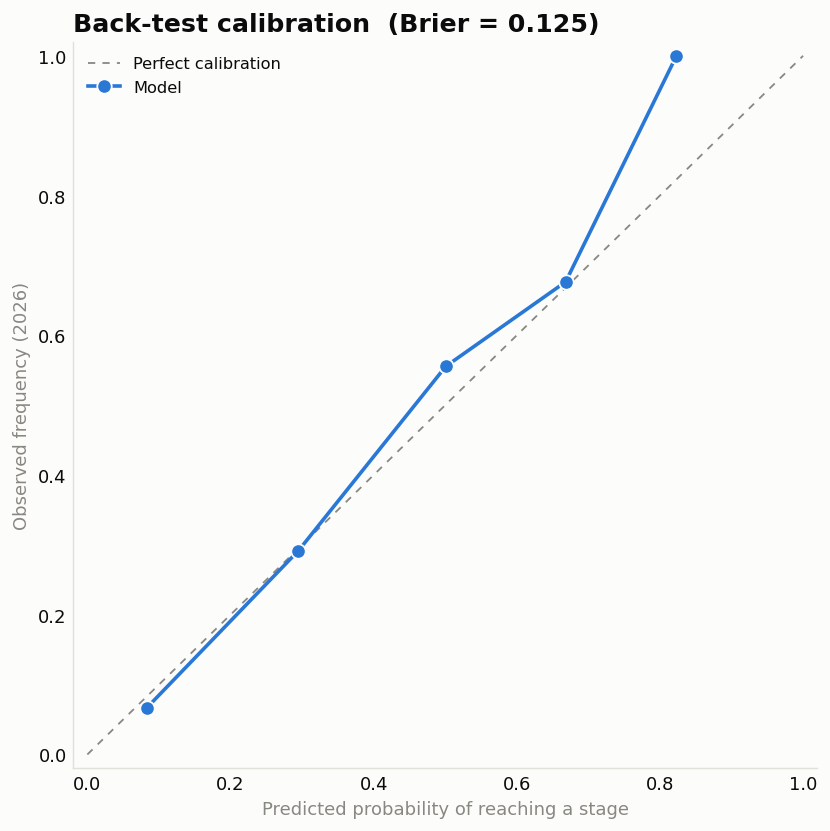
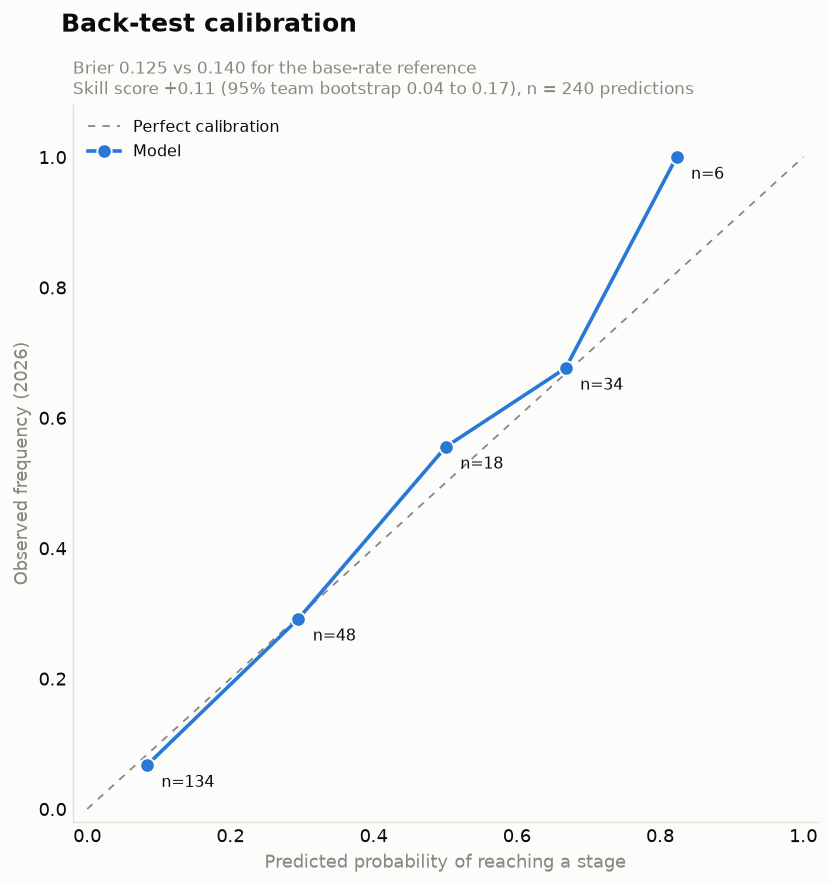
feat: compare back-test Brier score with a base-rate reference
A Brier score on its own has no scale. Add a reference forecast that only knows the 48-team format, the Brier skill score with a team-level bootstrap interval, and the number of predictions behind each calibration point.

diff --git a/scripts/04_simulate_tournament.py b/scripts/04_simulate_tournament.py
@@ -14,7 +14,7 @@ import pandas as pd
 
 sys.path.insert(0, str(Path(__file__).resolve().parents[1] / "src"))
 
-from worldcup import config, simulation
+from worldcup import config, evaluation, simulation
 from worldcup.model import DixonColesModel
 
 STAGE_COLUMNS = [
@@ -35,7 +35,11 @@ SURFACE = "#fcfcfb"
 
 
 def back_test(probs: pd.DataFrame, knockout: pd.DataFrame) -> pd.DataFrame:
-    """Compare predicted stage probabilities with what actually happened in 2026."""
+    """Compare predicted stage probabilities with what actually happened in 2026.
+
+    Adds the base-rate ``reference`` forecast (share of the field reaching each
+    stage) so the model's Brier score has something to be compared with.
+    """
     actual = simulation.actual_reached_depths(knockout)
     records = []
     for _, row in probs.iterrows():
@@ -49,7 +53,28 @@ def back_test(probs: pd.DataFrame, knockout: pd.DataFrame) -> pd.DataFrame:
                     "actual": int(depth >= stage),
                 }
             )
-    return pd.DataFrame(records)
+    bt = pd.DataFrame(records)
+    bt["reference"] = evaluation.base_rate_probabilities(bt["stage"], n_teams=len(probs))
+    return bt
+
+
+def back_test_summary(bt: pd.DataFrame) -> pd.DataFrame:
+    """Brier score of the model and the reference, and the skill score, per stage and overall."""
+    rows = []
+    groups = [(stage, bt[bt["stage"] == stage]) for stage, _ in STAGE_COLUMNS] + [("all", bt)]
+    for stage, d in groups:
+        rows.append(
+            {
+                "stage": stage,
+                "n": len(d),
+                "brier_model": evaluation.brier_score(d["predicted"], d["actual"]),
+                "brier_reference": evaluation.brier_score(d["reference"], d["actual"]),
+                "skill_score": evaluation.brier_skill_score(
+                    d["predicted"], d["actual"], d["reference"]
+                ),
+            }
+        )
+    return pd.DataFrame(rows)
 
 
 def _style_axes(ax):
@@ -111,41 +136,40 @@ def figure_strengths(model: DixonColesModel, groups: pd.DataFrame, path: Path) -
     plt.close(fig)
 
 
-def figure_backtest(bt: pd.DataFrame, path: Path, n_bins: int = 5) -> float:
-    """Reliability plot pooling all (team, stage) predictions; returns Brier score."""
+def figure_backtest(
+    bt: pd.DataFrame, summary: pd.DataFrame, ci: tuple[float, float], path: Path, n_bins: int = 5
+) -> None:
+    """Reliability plot pooling all (team, stage) predictions, with bin sizes and skill score."""
     import matplotlib.pyplot as plt
 
-    p = bt["predicted"].to_numpy()
-    a = bt["actual"].to_numpy()
-    brier = float(np.mean((p - a) ** 2))
+    table = evaluation.calibration_table(bt["predicted"], bt["actual"], n_bins=n_bins)
+    overall = summary.set_index("stage").loc["all"]
 
-    edges = np.linspace(0, 1, n_bins + 1)
-    xs, ys = [], []
-    for lo, hi in zip(edges[:-1], edges[1:]):
-        mask = (p >= lo) & (p < hi if hi < 1 else p <= hi)
-        if mask.sum():
-            xs.append(p[mask].mean())
-            ys.append(a[mask].mean())
-
-    fig, ax = plt.subplots(figsize=(6.5, 6.5), dpi=130)
+    fig, ax = plt.subplots(figsize=(6.5, 6.9), dpi=130)
     fig.patch.set_facecolor(SURFACE)
     ax.plot([0, 1], [0, 1], color=MUTED, linewidth=1, linestyle=(0, (4, 4)), label="Perfect calibration")
-    ax.plot(xs, ys, marker="o", color=BLUE, linewidth=2, markersize=8,
-            markeredgecolor=SURFACE, label="Model")
+    ax.plot(table["mean_predicted"], table["observed"], marker="o", color=BLUE, linewidth=2,
+            markersize=8, markeredgecolor=SURFACE, label="Model")
+    for x, y, n in zip(table["mean_predicted"], table["observed"], table["n"]):
+        ax.annotate(f"n={n}", (x, y), xytext=(8, -12), textcoords="offset points",
+                    fontsize=9, color=INK)
     _style_axes(ax)
     ax.set_xlim(-0.02, 1.02)
-    ax.set_ylim(-0.02, 1.02)
+    ax.set_ylim(-0.02, 1.08)
     ax.set_xlabel("Predicted probability of reaching a stage", color=MUTED, fontsize=10)
     ax.set_ylabel("Observed frequency (2026)", color=MUTED, fontsize=10)
+    fig.suptitle("Back-test calibration", x=0.08, ha="left", color=INK, fontsize=14,
+                 fontweight="bold")
     ax.set_title(
-        f"Back-test calibration  (Brier = {brier:.3f})",
-        color=INK, fontsize=14, fontweight="bold", loc="left",
+        f"Brier {overall['brier_model']:.3f} vs {overall['brier_reference']:.3f} for the "
+        f"base-rate reference\nSkill score {overall['skill_score']:+.2f} "
+        f"(95% team bootstrap {ci[0]:.2f} to {ci[1]:.2f}), n = {int(overall['n'])} predictions",
+        color=MUTED, fontsize=9.5, loc="left",
     )
-    ax.legend(frameon=False, fontsize=9, labelcolor=INK)
+    ax.legend(frameon=False, fontsize=9, labelcolor=INK, loc="upper left")
     fig.tight_layout()
     fig.savefig(path, facecolor=SURFACE, bbox_inches="tight")
     plt.close(fig)
-    return brier
 
 
 def main() -> None:
@@ -172,9 +196,17 @@ def main() -> None:
     config.FIGURES_DIR.mkdir(parents=True, exist_ok=True)
     figure_title_odds(probs, config.FIGURES_DIR / "title_odds.png")
     figure_strengths(model, groups, config.FIGURES_DIR / "team_strengths.png")
-    brier = figure_backtest(back_test(probs, knockout), config.FIGURES_DIR / "backtest_calibration.png")
-    print(f"\nBack-test Brier score (reaching each stage): {brier:.3f}")
-    print(f"Figures written to {config.FIGURES_DIR}")
+    bt = back_test(probs, knockout)
+    summary = back_test_summary(bt)
+    ci = evaluation.bootstrap_skill_score(bt)
+    figure_backtest(bt, summary, ci, config.FIGURES_DIR / "backtest_calibration.png")
+
+    print("\nBack-test, model vs base-rate reference (Brier score, lower is better):")
+    print(summary.round(3).to_string(index=False))
+    print(f"Skill score 95% team-bootstrap interval: {ci[0]:.3f} to {ci[1]:.3f}")
+    print("\nCalibration bins:")
+    print(evaluation.calibration_table(bt["predicted"], bt["actual"]).round(3).to_string(index=False))
+    print(f"\nFigures written to {config.FIGURES_DIR}")
 
 
 if __name__ == "__main__":

diff --git a/src/worldcup/evaluation.py b/src/worldcup/evaluation.py
@@ -1,0 +1,87 @@
+"""Back-test metrics: Brier score, a base-rate reference and calibration bins.
+
+A Brier score on its own says little, so the model is compared with a
+reference forecast that knows the tournament format but nothing about the
+teams: every side gets the share of the field that reaches each stage
+(32 of 48 reach the round of 32, 16 of 48 the round of 16, and so on).
+The Brier skill score ``1 - BS_model / BS_reference`` is the fraction of the
+reference's error that the model removes: 0 means no better than the format,
+1 means perfect.
+"""
+from __future__ import annotations
+
+import numpy as np
+import pandas as pd
+
+# Teams that reach each knockout stage in the 48-team format.
+STAGE_SLOTS = {
+    "round_of_32": 32,
+    "round_of_16": 16,
+    "quarter_final": 8,
+    "semi_final": 4,
+    "final": 2,
+}
+
+
+def brier_score(predicted, actual) -> float:
+    """Mean squared difference between predicted probabilities and 0/1 outcomes."""
+    p = np.asarray(predicted, dtype=float)
+    a = np.asarray(actual, dtype=float)
+    return float(np.mean((p - a) ** 2))
+
+
+def base_rate_probabilities(stages: pd.Series, n_teams: int) -> pd.Series:
+    """Reference forecast: the share of the field that reaches each stage."""
+    return stages.map(STAGE_SLOTS) / n_teams
+
+
+def brier_skill_score(predicted, actual, reference) -> float:
+    """``1 - BS(predicted) / BS(reference)``; positive means better than the reference."""
+    return 1.0 - brier_score(predicted, actual) / brier_score(reference, actual)
+
+
+def calibration_table(predicted, actual, n_bins: int = 5) -> pd.DataFrame:
+    """Bin predictions into equal-width bins and compare with observed frequencies.
+
+    Returns one row per non-empty bin with the number of predictions ``n``, the
+    mean predicted probability and the observed frequency.
+    """
+    p = np.asarray(predicted, dtype=float)
+    a = np.asarray(actual, dtype=float)
+    edges = np.linspace(0, 1, n_bins + 1)
+    rows = []
+    for lo, hi in zip(edges[:-1], edges[1:]):
+        mask = (p >= lo) & (p < hi if hi < 1 else p <= hi)
+        if mask.any():
+            rows.append(
+                {
+                    "bin_low": lo,
+                    "bin_high": hi,
+                    "n": int(mask.sum()),
+                    "mean_predicted": float(p[mask].mean()),
+                    "observed": float(a[mask].mean()),
+                }
+            )
+    return pd.DataFrame(rows)
+
+
+def bootstrap_skill_score(
+    bt: pd.DataFrame, n_boot: int = 2000, level: float = 0.95, seed: int = 0
+) -> tuple[float, float]:
+    """Percentile interval for the Brier skill score, resampling whole teams.
+
+    ``bt`` needs ``team``, ``predicted``, ``actual`` and ``reference`` columns.
+    Teams are resampled rather than single predictions because a team's five
+    stage outcomes are nested. Teams in one tournament are not fully
+    independent either, so read the interval as approximate.
+    """
+    rng = np.random.default_rng(seed)
+    by_team = [g[["predicted", "actual", "reference"]].to_numpy() for _, g in bt.groupby("team")]
+    scores = np.empty(n_boot)
+    for i in range(n_boot):
+        idx = rng.integers(0, len(by_team), len(by_team))
+        sample = np.concatenate([by_team[j] for j in idx])
+        scores[i] = brier_skill_score(sample[:, 0], sample[:, 1], sample[:, 2])
+    tail = (1 - level) / 2 * 100
+    lo, hi = np.percentile(scores, [tail, 100 - tail])
+    return float(lo), float(hi)

diff --git a/tests/test_evaluation.py b/tests/test_evaluation.py
@@ -1,0 +1,46 @@
+import numpy as np
+import pandas as pd
+import pytest
+
+from worldcup import evaluation
+
+
+def test_brier_score_bounds():
+    assert evaluation.brier_score([1.0, 0.0], [1, 0]) == 0.0
+    assert evaluation.brier_score([0.0, 1.0], [1, 0]) == 1.0
+    assert evaluation.brier_score([0.5, 0.5], [1, 0]) == pytest.approx(0.25)
+
+
+def test_base_rates_follow_the_48_team_format():
+    stages = pd.Series(list(evaluation.STAGE_SLOTS))
+    rates = evaluation.base_rate_probabilities(stages, n_teams=48)
+    assert rates.tolist() == pytest.approx([32 / 48, 16 / 48, 8 / 48, 4 / 48, 2 / 48])
+
+
+def test_skill_score_is_zero_for_the_reference_and_one_for_a_perfect_forecast():
+    actual = np.array([1, 0, 1, 0, 0])
+    reference = np.full(5, 0.4)
+    assert evaluation.brier_skill_score(reference, actual, reference) == pytest.approx(0.0)
+    assert evaluation.brier_skill_score(actual, actual, reference) == pytest.approx(1.0)
+
+
+def test_calibration_table_counts_every_prediction_once():
+    p = np.array([0.05, 0.1, 0.3, 0.55, 0.9, 1.0])
+    a = np.array([0, 0, 1, 1, 1, 1])
+    table = evaluation.calibration_table(p, a, n_bins=5)
+    assert table["n"].sum() == len(p)
+    top = table.iloc[-1]
+    assert top["n"] == 2 and top["observed"] == 1.0  # p = 1.0 falls in the last bin
+
+
+def test_bootstrap_interval_contains_the_point_estimate():
+    rng = np.random.default_rng(1)
+    teams = np.repeat([f"T{i}" for i in range(40)], 5)
+    predicted = rng.uniform(0, 1, teams.size)
+    actual = (rng.uniform(0, 1, teams.size) < predicted).astype(int)
+    bt = pd.DataFrame(
+        {"team": teams, "predicted": predicted, "actual": actual, "reference": 0.5}
+    )
+    point = evaluation.brier_skill_score(bt.predicted, bt.actual, bt.reference)
+    lo, hi = evaluation.bootstrap_skill_score(bt, n_boot=500)
+    assert lo < point < hi
